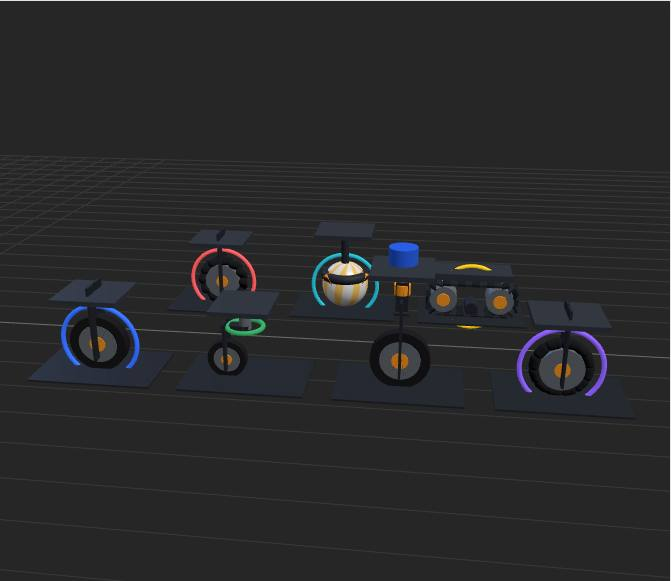
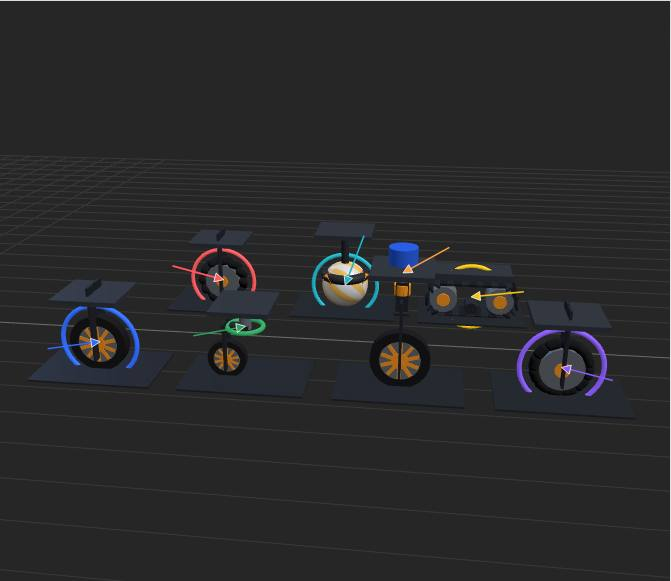
Anatomy 3D wheels: orange spokes that stand proud of the disc, so the rolling can be seen
Claude-Session: https://claude.ai/code/session_01CAxfRZWdENGJi71LrWPR2V

diff --git a/anatomy.js b/anatomy.js
@@ -351,7 +351,7 @@ function buildWheels() {
   const tire = (parent, pos, r, w) => {
     const g = group(parent, pos);
     cyl(r, w, BLACK, g, [0, 0, 0], 'z'); cyl(r * 0.68, w * 1.05, SILVER, g, [0, 0, 0], 'z'); cyl(r * 0.28, w * 1.2, ORANGE, g, [0, 0, 0], 'z');
-    for (let i = 0; i < 5; i++) { const sp = boxm(r * 1.2, r * 0.12, w * 0.9, DARK, g, [0, 0, 0]); sp.rotation.z = i * Math.PI / 5; }
+    for (let i = 0; i < 5; i++) { const sp = boxm(r * 1.3, r * 0.13, w * 1.14, ORANGE, g, [0, 0, 0]); sp.rotation.z = i * Math.PI / 5; }
     xr(mesh(new THREE.TorusGeometry(r * 0.3, 0.008, 8, 24), SILVER, g, [0, 0, w * 0.58]));          // bearing
     const m = group(g); m.rotation.x = Math.PI / 2; xr(cyl(r * 0.22, w * 1.5, MOTOR, m, [0, 0, 0])); xr(cyl(r * 0.12, w * 1.9, COPPER, m, [0, 0, 0]));   // hub motor
     return g;
@@ -426,7 +426,7 @@ function buildDrives() {
     const pivot = group(parent, [x, 0, -y]), steer = group(pivot), hd = group(steer); hd.rotation.y = head * D;
     const spin = group(hd, [0, R, 0]);
     if (kind === 'fixed') { cyl(R, W, BLACK, spin, [0, 0, 0], 'z'); cyl(R * 0.68, W * 1.05, SILVER, spin, [0, 0, 0], 'z'); cyl(R * 0.28, W * 1.2, ORANGE, spin, [0, 0, 0], 'z');
-      for (let i = 0; i < 5; i++) { const sp = boxm(R * 1.2, R * 0.12, W * 0.9, DARK, spin, [0, 0, 0]); sp.rotation.z = i * Math.PI / 5; } }
+      for (let i = 0; i < 5; i++) { const sp = boxm(R * 1.3, R * 0.13, W * 1.14, ORANGE, spin, [0, 0, 0]); sp.rotation.z = i * Math.PI / 5; } }
     else {
       cyl(R * 0.72, W * 1.1, SILVER, spin, [0, 0, 0], 'z'); cyl(R * 0.25, W * 1.3, ORANGE, spin, [0, 0, 0], 'z');
       const Y = new THREE.Vector3(0, 1, 0);
